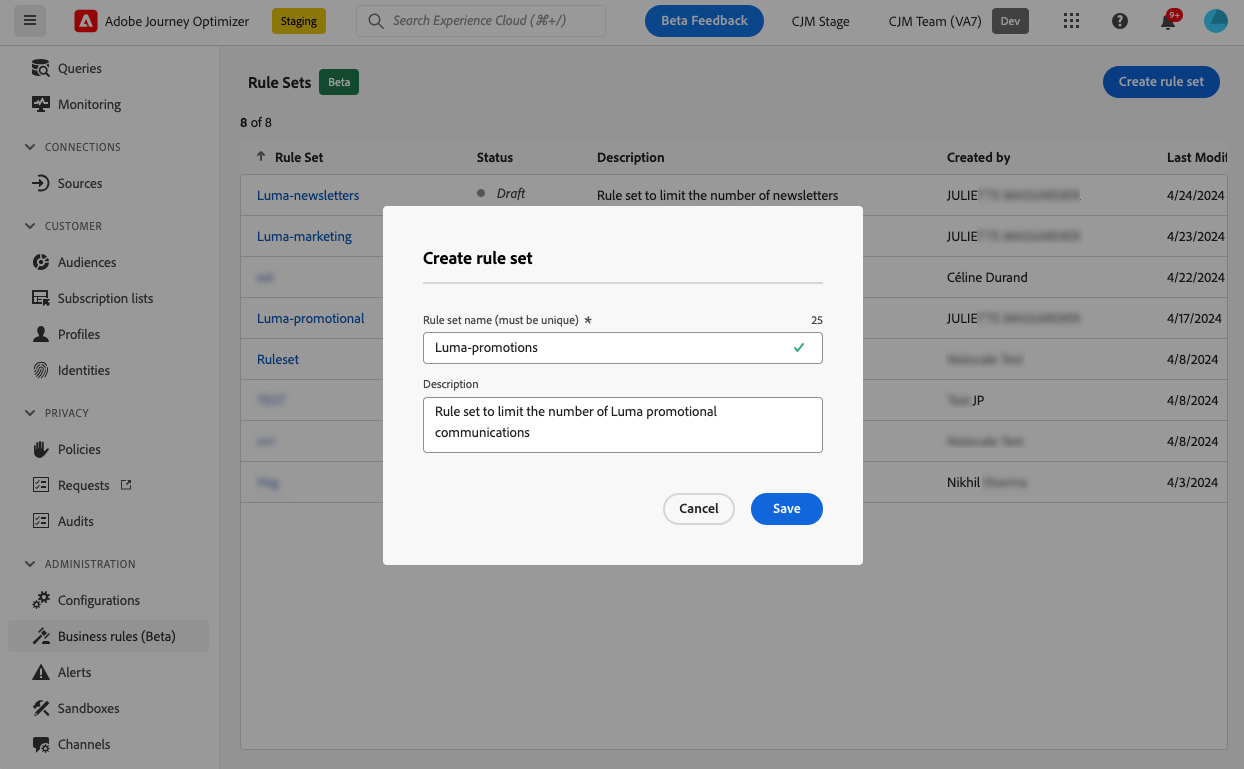
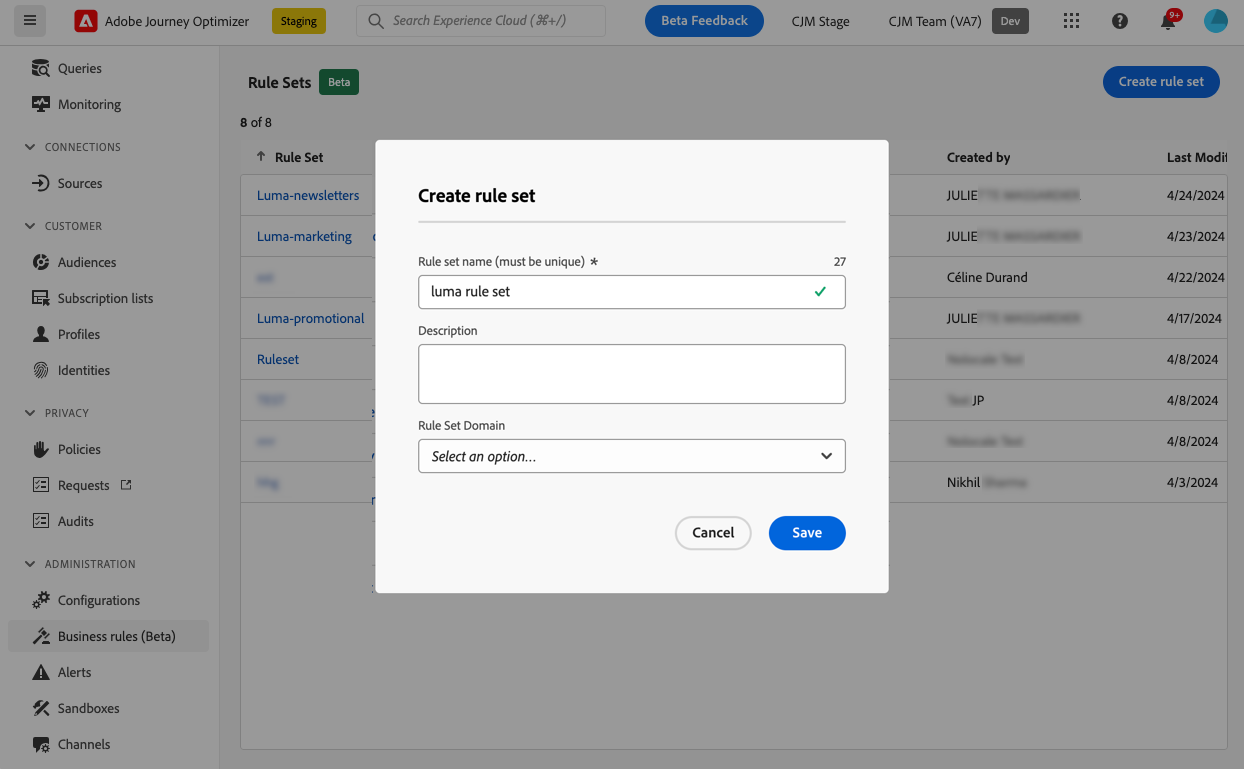
Rule sets updates (#1755)
* update rule sets

* update

Changed region(s): [[0.2749, 0.156, 0.7331, 0.7802]]

diff --git a/help/using/configuration/rule-sets.md b/help/using/configuration/rule-sets.md
@@ -24,13 +24,15 @@ exl-id: 07f5f0b4-417e-408e-8d9e-86615c8a3fbf
 >
 >Rule sets are currently available as a beta to selected users only. Please reach out to your Adobe representative to be included in the Beta. 
 
-## What are rule sets? {#what}
+## Get started with rule sets {#gs}
 
-In addition to  global business rules that restrict the number of times users receive messages across one or multiple channels, rule sets allow you to **group together multiple rules into rule sets** and apply them to the campaigns of your choice. This provides improved granularity to control how often users will receive a message depending on the type of communication. 
+### What are rule sets? {#what}
+
+In addition to global business rules that restrict the number of times users receive messages across one or multiple channels, rule sets allow you to **group together multiple rules into rule sets** and apply them to the campaigns of your choice. This provides improved granularity to control how often users will receive a message depending on the type of communication. 
 
 For example, you can create a rule set to limit the number of **promotional communications** sent to your customers and another rule set to limit the number of **newsletters** sent to them. Depending on the type of campaign that you are creating, you can then choose to apply either the promotional communication or the newsletters rule set.
 
-## Global & custom rule sets {#global-custom}
+### Global & custom rule sets {#global-custom}
 
 When accessing rule sets for the first time from the **[!UICONTROL Administration]** > **[!UICONTROL Business rules (Beta)]** menu, a default rule set is pre-created and active: **Global Default Rule Set**.
 
@@ -44,9 +46,18 @@ In addition to this "Global Default Rule Set" rule set, you can create **custom 
 >
 >For now, custom rule sets can be applied to **campaigns** only. Only the rules defined in the "Global Default Rule Set" rule set apply to both journeys and campaigns communications.
 
+### Channel & journeys capping rules {#domain}
+
+When creating a rule set, you need to specify if the rules within the rule set will enforce capping rules that are specific to communication channels, or to journeys. 
+
+This is done by selecting a Channel or Journey domin for the rule set when creating it. [Learn how to create a rule set]
+
+* **Channel** domain: apply capping rules for communication channels. For example, do not send more than 1 email or SMS communication per day.
+* **Journey** domain: apply entry and concurrency capping rules to a journey. For example, do not enter profiles into more than one journey simultaneously.
+
 ## Create your first custom rule set {#create-rule-set}
 
-### Create the rule set {#create}
+### Create the rule set and select its domain {#create}
 
 To create a rule set, follow the steps below.
 
@@ -58,13 +69,16 @@ To create a rule set, follow the steps below.
 
     ![](assets/rule-sets-create-button.png)
 
-1. Define the rule set name, add a description if wanted and click **[!UICONTROL Save]**.
+1. Define a unique name for the rule set and add a description.
+
+1. Select the rule set's domain. The domain allows you to specify if the rule set will contain capping rules that are specific to communication channels or to journeys:
+   
+   * **Channel**: Apply capping rules for communication channels. For example, do not send more than 1 email or SMS communication per day.
+   * **Journey**: Apply entry and concurrency capping rules to a journey. For example, do not enter profiles into more than one journey simultaneously.
 
    ![](assets/rule-sets-create.png)
 
-   >[!NOTE]
-   >
-   >The rule set name must be unique.
+1. Click **[!UICONTROL Save]**.
 
 1. Now you can [define the rules](#create-new-rule) you want to add to this rule set.
 
@@ -90,13 +104,15 @@ To create a rule set, follow the steps below.
 >title="Select the message rule category"
 >abstract="When activated and applied to a message, all the frequency rules matching the selected category will be automatically applied to this message. Currently only the Marketing category is available."
 
-To add a rule to a rule set, follow the steps below.
+To add a rule to a rule set, access the rule set and click **[!UICONTROL Add rule]**.
 
-1. From the rule set you just created, click **[!UICONTROL Add rule]**.
+The parameters available for the rule depend on the rule set domain selected at its creation.
 
-    ![](assets/rule-sets-create-rule-button.png)
++++Configure channel capping rules (**Channel** domain)
 
-1. Define a unique **Rule name**.
+![](assets/rule-set-channels.png)
+
+1. Define a unique name for the rule.
 
 1. The **Category** field specifies the category of message the rule applies to. For now, this field is read-only as only the **[!UICONTROL Marketing]** category is available.
 
@@ -124,8 +140,6 @@ To add a rule to a rule set, follow the steps below.
 
 1. Select the channel you want to use for this rule: **[!UICONTROL Email]**, **[!UICONTROL SMS]**, **[!UICONTROL Push notification]** or **[!UICONTROL Direct mail]**.
 
-   ![](assets/rule-set-channels.png)
-
    >[!NOTE]
    >
    >You must select at least one channel to be able to create the rule.
@@ -133,6 +147,23 @@ To add a rule to a rule set, follow the steps below.
 1. Select several channels if you want to apply capping across all selected channels as a total count.
 
    For example, set capping to 5, and select both the email and sms channels. If a profile has already received 3 marketing emails and 2 marketing sms for the selected period, this profile will be excluded from the very next delivery of any marketing email or sms.
+
++++
+
++++Configure journey capping rules (**Journey** domain)
+
+![](assets/rule-set-journey.png)
+
+1. Provide a unique name for the rule.
+
+1. In the **[!UICONTROL Rule Type]** drop-down list, specify the type of capping for the rule.
+
+   * **[!UICONTROL Journey Entry Cap]**: Limits the number of entries into the journey over a given period for a profile.
+   * **[!UICONTROL Journey Concurrency Cap]**: Limits how many journeys a profile can be enrolled in simultaneously.
+
+1. Detailed information on how to configure journey capping rules is available in the [Journey capping & arbitration](../test-approve/journey-capping.md) section. 
+
++++
 
 1. Click **[!UICONTROL Save]** to confirm the rule creation. Your message is added to the rule set, with the **[!UICONTROL Draft]** status.
 
@@ -200,9 +231,11 @@ Users with the **[!UICONTROL View frequency rules]** permission are able to view
 
 Learn more about permissions in [this section](../administration/high-low-permissions.md).-->
 
-## Apply a rule set to a message {#apply-frequency-rule}
- 
-To apply a business rule to a message, follow the steps below.
+## Apply rule sets to a message or journey {#apply-frequency-rule}
+
+You can apply a rule set to a message or a journey, depending on the domain selected when creating the rule set. Expand the sections below for more information.
+
++++ Apply a rule set to a message
 
 1. When creating a [campaign](../campaigns/create-campaign.md), select one of the channels you defined for your rule set and edit the content of your message.
 
@@ -260,3 +293,17 @@ In this scenario, an individual profile:
 * but will be excluded from marketing push notifications after they have received 4 push notifications.-->
 
 When testing frequency rules, it is recommended to use a newly created [test profile](../audience/creating-test-profiles.md), because once a profile's frequency cap is reached, there is no way to reset the counter until the next period. Deactivating a rule will allow capped profiles to receive messages, but it will not remove or delete any counter increments.
+
++++
+
++++ Apply a rule set to a journey
+
+To apply a capping rule to a journey, access the journey and open its properties. In the **[!UICONTROL Capping rules]** drop-down, select the relevant rule set. 
+
+![](assets/journey-capping-apply.png)
+
+>[!IMPORTANT]
+>
+>If a journey is activated immediately, it can take up to 15 minutes for the system to begin suppressing customers. You can schedule your journey to begin at least 15 minutes into the future to prevent this possibility.
+
++++

diff --git a/help/using/test-approve/journey-capping.md b/help/using/test-approve/journey-capping.md
@@ -104,7 +104,7 @@ To apply a capping rule to a journey, access the journey and open its properties
 
 Once the journey is activated, the capping rules defined in the rule set will take effect. 
 
-![](assets/journey-capping-apply.png)
+![](../test-approve/assets/journey-capping-apply.png)
 
 >[!IMPORTANT]
 >
